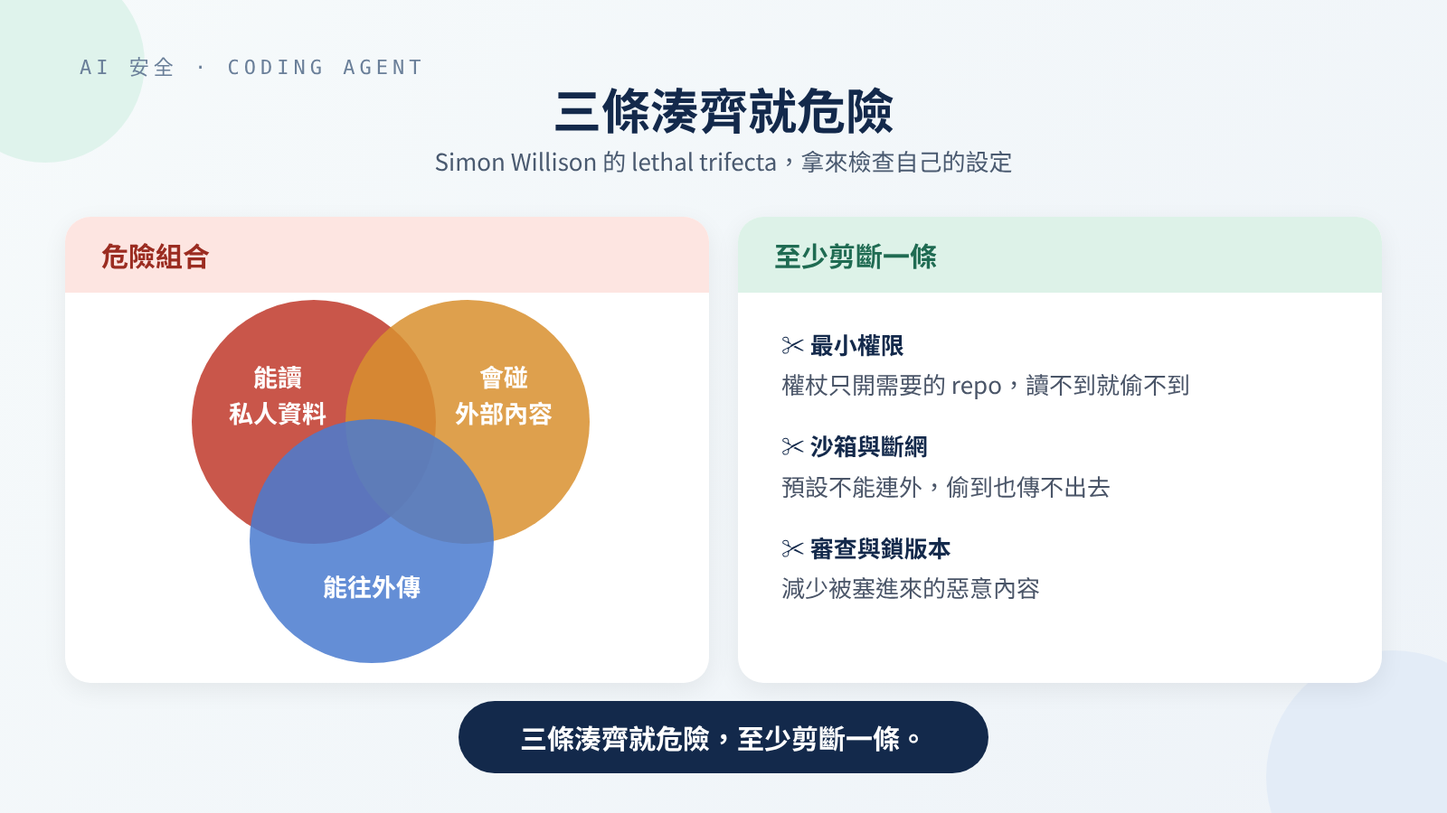
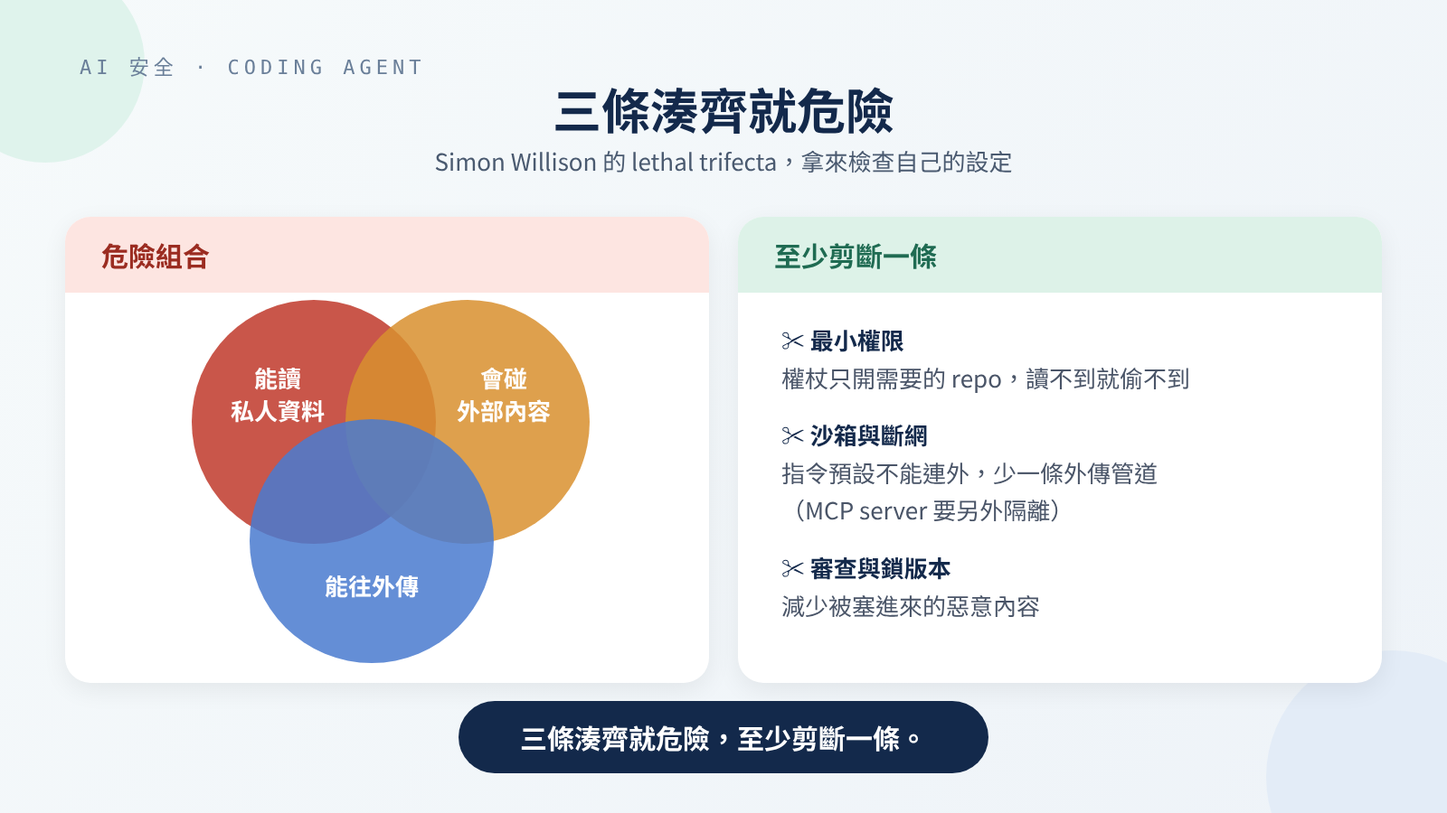
依審稿第 1 輪修訂 Coding Agent 供應鏈文章（JM-20261016-001 v3）
- mcp-remote 補修補版本 0.1.16、CVSS 9.6、GHSA 連結與平台差異
- Cursor CVSS 分數來源差異加註；Nx 描述收斂到來源範圍
- 簡中逐條改為大陸用語；圖片與封面改為各語言版本
- 術語白話說明、縮短 description、改用正式網址、補鎖版本範例

diff --git a/_posts/en/2026-10-16-coding-agent-supply-chain-permission-risks.md b/_posts/en/2026-10-16-coding-agent-supply-chain-permission-risks.md
@@ -1,12 +1,12 @@
 ---
 title: "What New Openings Does Your Coding Agent Get After You Install Third-Party Skills and MCP Servers?"
-description: From poisoned MCP tool descriptions and a GitHub issue that leaks private repos, to CVEs in Cursor and mcp-remote and the malicious Nx release that tried to enlist local AI tools, this post breaks down the supply-chain and permission risks of coding agents and ends with a checklist for before you install, while you use, and after something goes wrong.
+description: "Five public cases of how third-party skills and MCP servers widen a coding agent's attack surface, from prompt injection to supply chain and permissions, plus a checklist."
 date: 2026-10-16 16:30:00 +0800
 categories: [Security, AI Agents]
 tags: [ai-security, coding-agent, mcp, agent-skills, prompt-injection, supply-chain-security]
 media_subpath: /assets/img/posts/coding-agent-supply-chain-permission-risks/
 image:
-  path: cover.png
+  path: cover.en.png
   alt: "Cover: a coding agent connected to plugins, tools, and the network, next to four risk entry points and a checklist."
 ---
 
@@ -19,13 +19,15 @@ From that moment, your coding agent reads instructions you never wrote, runs cod
 
 The short version: no need to panic, but treat skills and MCP servers as "software that runs on your machine," not "a bit of configuration."
 
-## Three terms first
+## Five terms first
 
 | Term | One-sentence explanation |
 | --- | --- |
 | Skill | A folder with an instruction file for the AI (`SKILL.md`), optionally with scripts; when the AI decides it's relevant, it reads the file and follows it. |
 | MCP server | A small program that connects the AI to outside tools, like GitHub or a database; it tells the AI "here are my tools and how to use them." |
 | Prompt injection | Hiding instructions in content the AI will read (web pages, issues, docs, tool output) so the AI mistakes them for commands it should follow. |
+| Token | A string that stands in for your username and password; whoever holds it can act as you within what it allows. |
+| Sandbox | A fence around a program that limits which files it can read or write and whether it can reach the network. |
 
 For how skills get installed and invoked, see [mattpocock/skills Series (1)](/posts/mattpocock-skills-setup-routing-guide/).
 
@@ -35,15 +37,15 @@ Picture your coding agent as a very capable assistant who believes everything. I
 
 The assistant follows the manual and trusts the vendor's self-description. The catch: you wrote neither, and the assistant is holding your keys.
 
-**Fact**: Anthropic's [Agent Skills docs](https://docs.claude.com/en/docs/agents-and-tools/agent-skills/overview#security-considerations) say to use only skills you wrote or got from Anthropic, and that a malicious skill can direct Claude to invoke tools or execute code in ways that don't match its stated purpose. The same page says that in Claude Code, skills have [the same network access as any other program on your computer](https://docs.claude.com/en/docs/agents-and-tools/agent-skills/overview#runtime-environment-constraints).
+**Fact**: Anthropic's [Agent Skills docs](https://platform.claude.com/docs/en/agents-and-tools/agent-skills/overview#security-considerations) say to use only skills you wrote or got from Anthropic, and that a malicious skill can direct Claude to invoke tools or execute code in ways that don't match its stated purpose. The same page says that in Claude Code, skills have [the same network access as any other program on your computer](https://platform.claude.com/docs/en/agents-and-tools/agent-skills/overview#runtime-environment-constraints).
 
-**Fact**: The [Claude Code security docs](https://docs.claude.com/en/docs/claude-code/security#mcp-security) say Anthropic does not security-audit or manage any MCP server.
+**Fact**: The [Claude Code security docs](https://code.claude.com/docs/en/security#mcp-security) say Anthropic does not security-audit or manage any MCP server; it only reviews connectors against its listing criteria before adding them to the Anthropic Directory.
 
 In other words, the vendors themselves hand that responsibility back to you.
 
 ## The attack surface: four entry points
 
-![A coding agent in the middle with four entry points around it: instructions hidden in tool output and documents, malicious or tampered skills and MCP servers, over-broad permissions and credentials, and auto-executed commands; the bottom reads "Four entry points, often chained together"](attack-surface-map.png){: width="800" height="450" }
+![A coding agent in the middle with four entry points around it: instructions hidden in tool output and documents, malicious or tampered skills and MCP servers, over-broad permissions and credentials, and commands that run automatically (including silent installs of the latest version); the bottom reads "Four entry points, often chained together"](attack-surface-map.en.png){: width="800" height="450" }
 _The four entry points rarely show up alone; real attacks usually chain two or three._
 
 ### Entry 1: instructions hidden in content
@@ -54,7 +56,7 @@ The AI isn't good at telling who said what. Your instructions, web pages, issue 
 
 1. Access to your private data
 2. Exposure to content someone else controls
-3. A way to send things out (a request, a PR, even just a link)
+3. A way to send things out (a network request, loading an image, even just giving you a link)
 
 It isn't a formal standard, but it's an excellent way to check your own setup. The defenses below keep coming back to these three.
 
@@ -71,13 +73,13 @@ The second is sneakier, because you already reviewed and approved it.
 
 What an agent can do is the sum of the permissions it holds. Your `~/.ssh`, API keys in environment variables, the token from your `gh` login, passwords in MCP config files: if the user running the agent can read them, so can the agent.
 
-**Fact**: The [official MCP security best practices](https://modelcontextprotocol.io/specification/2025-06-18/basic/security_best_practices#local-mcp-server-compromise) state that local MCP servers run with the same privileges as the MCP client, and list requesting a huge bundle of scopes up front as a common mistake, since a leaked token then reaches much further.
+**Fact**: The [official MCP security best practices](https://modelcontextprotocol.io/docs/2025-06-18/tutorials/security/security_best_practices#local-mcp-server-compromise) state that local MCP servers run with the same privileges as the MCP client, and list requesting a huge bundle of scopes up front as a common mistake, since a leaked token then reaches much further.
 
 ### Entry 4: auto-executed commands
 
-To stop being asked "may I run this?", many people turn on auto-approve or switch off the sandbox entirely. It saves a lot of time, and removes the last human checkpoint.
+To stop being asked "may I run this?", many people turn on auto-approve or switch off the sandbox entirely. It saves a lot of time, and removes the last human checkpoint. A quieter kind of "automatic" exists too: some tools install the latest version of a package in the background without asking (that is what happened in Case 5).
 
-**Fact**: The Codex docs label `--dangerously-bypass-approvals-and-sandbox` (alias `--yolo`) as [no sandbox, no approvals, not recommended](https://developers.openai.com/codex/agent-approvals-security#common-sandbox-and-approval-combinations). The Claude Code docs warn that in Manual mode [a Bash command you approve can still write anywhere your user account can](https://docs.claude.com/en/docs/claude-code/security#built-in-protections); the folder boundary is a prompt, not a wall.
+**Fact**: The Codex docs label `--dangerously-bypass-approvals-and-sandbox` (alias `--yolo`) as [no sandbox, no approvals, not recommended](https://learn.chatgpt.com/docs/agent-approvals-security#common-sandbox-and-approval-combinations). The Claude Code docs warn that in Manual mode [a Bash command you approve can still write anywhere your user account can](https://code.claude.com/docs/en/security#built-in-protections); the folder boundary is a prompt, not a wall.
 
 ## Cases: five with primary sources
 
@@ -100,75 +102,89 @@ The same post covers two extensions:
 
 **Fact**: The report stresses this isn't a bug in the GitHub MCP server's code but a system-level design problem that happens even when every tool is trustworthy.
 
-**Inference**: This is the lethal trifecta by the textbook: one token that can read private repos (private data), read public issues (outside content), and open PRs (a way out).
+**Inference**: This is the lethal trifecta by the textbook: one token that can read private repos (private data), read public issues (outside content), and open a PR on a public repo (a way out). Here the PR plays the role of Willison's "way to send things out," just in a different form.
 
 ### Case 3: Cursor's CVE-2025-54135 (patched)
 
-**Fact**: Per [Cursor's advisory GHSA-4cxx-hrm3-49rm](https://github.com/cursor/cursor/security/advisories/GHSA-4cxx-hrm3-49rm) and the [CVE record](https://www.cve.org/CVERecord?id=CVE-2025-54135): before 1.3.9, Cursor let the agent create new files in the workspace without approval. Editing an existing dotfile required approval, but creating one didn't. So if `.cursor/mcp.json` didn't exist yet, an attacker could chain an indirect prompt injection to have the agent write it, add a new MCP server, and execute arbitrary code. The advisory scores it CVSS 3.1 8.5; the fix is in 1.3.9.
+**Fact**: Per [Cursor's advisory GHSA-4cxx-hrm3-49rm](https://github.com/cursor/cursor/security/advisories/GHSA-4cxx-hrm3-49rm) and the [CVE record](https://www.cve.org/CVERecord?id=CVE-2025-54135): before 1.3.9 (the CVE record's wording; the advisory's affected-versions field says up to 1.2.1), Cursor let the agent create new files in the workspace without approval. Editing an existing hidden config file (a dotfile, a name starting with a dot, like `.cursor/mcp.json`) required approval, but creating one didn't. So if `.cursor/mcp.json` didn't exist yet, an attacker could chain an indirect prompt injection to have the agent write it, add a new MCP server, and execute arbitrary code. The fix is in 1.3.9. On severity, the advisory gives a CVSS 3.1 score (the industry's standard vulnerability severity score, out of 10) of 8.5. The CVE record says 8.6, but both use the identical vector, and computing that vector with the CVSS 3.1 formula myself gives 8.5.
 
 **Inference**: This chains Entry 1 (hidden instructions) with Entry 4 (auto-execution). A config file is itself a place that can run code; whether the agent may write it deserves the same strictness as whether it may run shell commands.
 
 ### Case 4: mcp-remote's CVE-2025-6514 (patched)
 
-**Fact**: [CVE-2025-6514](https://www.cve.org/CVERecord?id=CVE-2025-6514) records that `mcp-remote` (an npm package that connects local clients to remote MCP servers) was open to OS command injection when connecting to an untrusted MCP server, via a crafted URL in the `authorization_endpoint` response. Affected versions are 0.0.5 through 0.1.15. The record links [JFrog's research](https://jfrog.com/blog/2025-6514-critical-mcp-remote-rce-vulnerability) and the [fix commit](https://github.com/geelen/mcp-remote/commit/607b226a356cb61a239ffaba2fb3db1c9dea4bac).
+**Fact**: [CVE-2025-6514](https://www.cve.org/CVERecord?id=CVE-2025-6514) records that `mcp-remote` (an npm package that connects local clients to remote MCP servers) was open to OS command injection when connecting to an untrusted MCP server, via a crafted URL in the `authorization_endpoint` response. (`authorization_endpoint` is the "go here to sign in" address in an OAuth flow; OAuth is the common "sign in by authorizing through another service" mechanism.) Affected versions are 0.0.5 through 0.1.15; [GitHub advisory GHSA-6xpm-ggf7-wc3p](https://github.com/advisories/GHSA-6xpm-ggf7-wc3p) lists 0.1.16 as the first patched version. The CVE record, the GitHub advisory, and [JFrog's research](https://jfrog.com/blog/2025-6514-critical-mcp-remote-rce-vulnerability) all give CVSS 3.1 9.6 (Critical). The fix is in [this commit](https://github.com/punkpeye/mcp-remote/commit/607b226a356cb61a239ffaba2fb3db1c9dea4bac).
 
-**Fact**: The MCP best practices have a matching rule: clients [must not open authorization URLs with shell commands](https://modelcontextprotocol.io/specification/2025-06-18/basic/security_best_practices#oauth-authorization-url-validation) and must reject dangerous URL schemes.
+**Fact**: JFrog also spells out platform differences. On Windows they proved arbitrary OS command execution with full control of the arguments; on macOS and Linux it leads to running arbitrary executables with limited argument control (they note full command execution there may be possible with more research). Their two attack scenarios: connecting to a malicious or hijacked MCP server, or connecting over plain `http://` while someone on the same local network intercepts and tampers with the traffic.
+
+**Fact**: The MCP best practices have a matching rule: clients [must not open authorization URLs with shell commands](https://modelcontextprotocol.io/docs/2025-06-18/tutorials/security/security_best_practices#oauth-authorization-url-validation) and must reject dangerous URL schemes.
 
 **Inference**: "Just connecting to an MCP server" is an execution risk, not only a data risk. Choosing which server to connect to is the same kind of decision as choosing which package to install.
 
 ### Case 5: malicious Nx releases enlist local AI tools (real incident, August 2025)
 
-**Fact**: According to Nx's [advisory GHSA-cxm3-wv7p-598c](https://github.com/nrwl/nx/security/advisories/GHSA-cxm3-wv7p-598c), attackers used a GitHub Actions injection bug to get the npm publish token and, on August 26, 2025, published malicious versions of `nx` and related packages. Their post-install script scanned the file system, collected credentials, and uploaded them to a repo named `s1ngularity-repository` under the victim's own GitHub account. The script in the advisory's appendix includes a prompt addressed to a "file-search agent," asking it to list paths of config and environment files.
+**Fact**: According to Nx's [advisory GHSA-cxm3-wv7p-598c](https://github.com/nrwl/nx/security/advisories/GHSA-cxm3-wv7p-598c), attackers used an injection bug in GitHub Actions (GitHub's built-in automation) to get the npm publish token (the credential for pushing new versions to the npm registry) and, on the evening of August 26, 2025 (US Eastern time), published malicious versions of `nx` and related packages. They carried a postinstall script (a script that runs automatically right after a package is installed) that scanned the file system, collected credentials, and uploaded them to a repo whose name contains `s1ngularity-repository` under the victim's own GitHub account. The script in the advisory's appendix includes a prompt addressed to a "file-search agent," asking it to list paths of config and environment files.
 
-**Fact**: Nx's [postmortem](https://nx.dev/blog/s1ngularity-postmortem) says the malicious packages attempted to use local AI tools (like Claude and Gemini). The advisory also notes that npm packages get installed through more than your own `npm install`: transitive dependencies, editor extensions, and AI agents. Their own Nx Console extension auto-installed the latest `nx`, so some people were hit just by opening their editor.
+**Fact**: Nx's [postmortem](https://nx.dev/blog/s1ngularity-postmortem) says the malicious packages attempted to use local AI tools (like Claude and Gemini). The advisory also notes that npm packages get installed through more than your own `npm install`: transitive dependencies, editor extensions, and AI agents. Their own Nx Console extension (VS Code versions 18.6.30 through 18.65.1) auto-installed the latest `nx`, so people with that extension who opened their editor during the few hours the malicious versions were tagged latest (6:37 PM to 10:44 PM US Eastern on August 26) may have been hit, even if their projects didn't use Nx.
 
-**Inference**: This flips the direction. Nobody attacked the agent; malware used an agent you'd already logged in and empowered as its tool. The more permission and the less confirmation your agent needs, the more useful it is to borrow.
+**Inference**: This flips the direction. The point isn't that someone attacked your agent; it's that malware *tried* to enlist the AI tools on your machine as helpers. If your agent is already logged in, highly privileged, and needs no confirmation, that kind of borrowing is easy; if it asks you at every step, it's much harder.
 
 > Neither the advisory nor the postmortem says how many victims' local AI tools actually ran, or what they did. I can't confirm that part, so please don't read this as "AI tools were exploited at scale."
 {: .prompt-warning }
 
 ## Defenses: four directions and what each blocks
 
-![On the left, three conditions: can read private data, touches outside content, can send things out, drawn as three overlapping circles. On the right, least privilege, sandbox with no network, and review plus pinning each cut one of them; the bottom reads "All three together is dangerous; cut at least one"](trifecta-cut.png){: width="800" height="450" }
+![On the left, three conditions: can read private data, touches outside content, can send things out, drawn as three overlapping circles. On the right, least privilege, sandbox with network off (noting that MCP servers need their own isolation), and review plus pinning each cut one of them; the bottom reads "All three together is dangerous; cut at least one"](trifecta-cut.en.png){: width="800" height="450" }
 _The goal isn't a smarter AI; it's an AI that can't do much damage even when fooled._
 
 **Opinion**: No single trick solves prompt injection. The practical approach today is to assume your agent will read malicious content someday, and make sure that on that day it can do very little harm.
 
 ### 1. Least privilege: just enough keys
 
-- Use fine-grained GitHub tokens scoped to the repos and permissions needed; don't hand the agent your full `gh` login.
-- One project per session. One of Invariant's recommendations in Case 2 is [limiting the agent to one repo per session](https://invariantlabs.ai/blog/mcp-github-vulnerability).
-- Start MCP authorization with minimal scopes and add more when needed, per the [MCP best practices on scope minimization](https://modelcontextprotocol.io/specification/2025-06-18/basic/security_best_practices#scope-minimization).
+- Use fine-grained GitHub tokens (tokens limited to specific repos and permissions, created under Settings → Developer settings → Personal access tokens); don't hand the agent your full `gh` login.
+- One project per session. One of Invariant's recommendations in Case 2 is [limiting the agent to one repo per session](https://invariantlabs.ai/blog/mcp-github-vulnerability) (they demonstrate it with their own Guardrails product; the idea can be implemented other ways).
+- Start MCP authorization with minimal scopes and add more when needed, per the [MCP best practices on scope minimization](https://modelcontextprotocol.io/docs/2025-06-18/tutorials/security/security_best_practices#scope-minimization).
 - Get credentials out of plaintext files. Nx's postmortem recommends the same.
 
 ### 2. Sandboxing: keep it inside a fence
 
 **Fact**:
 
-- Codex CLI uses an OS-level sandbox, [with no network and writes limited to the current workspace by default](https://developers.openai.com/codex/agent-approvals-security#sandbox-and-approvals); inside writable roots, `.git`, `.codex`, and `.agents` stay read-only.
-- Claude Code offers a [sandboxed Bash tool](https://docs.claude.com/en/docs/claude-code/security#built-in-protections) with filesystem and network isolation, and recommends VMs or dev containers when dealing with untrusted content.
+- Codex CLI uses an OS-level sandbox, [with no network and writes limited to the current workspace by default](https://learn.chatgpt.com/docs/agent-approvals-security); inside writable roots, `.git`, `.codex`, and `.agents` stay read-only.
+- Claude Code offers a [sandboxed Bash tool](https://code.claude.com/docs/en/security#built-in-protections) with filesystem and network isolation, and recommends VMs or dev containers (a whole development environment inside an isolated container) when dealing with untrusted content.
 
-**Fact**: Sandboxes have edges. The Codex docs state that the command network proxy [doesn't filter MCP server connections, web search, or connector calls](https://developers.openai.com/codex/agent-approvals-security#traffic-outside-the-command-network-proxy), and that running full-access mode in a dev container still lets a malicious project exfiltrate everything inside, including Codex credentials.
+**Fact**: Sandboxes have edges. The Codex docs state that the command network proxy [doesn't filter MCP server connections, web search, or connector calls](https://learn.chatgpt.com/docs/agent-approvals-security#traffic-outside-the-command-network-proxy), and that running full-access mode in a dev container still lets a malicious project exfiltrate everything inside, including Codex credentials.
 
 **Inference**: A sandbox fences in "commands the agent runs," not necessarily "what an MCP server does on its own." A local MCP server is a separate program and needs its own isolation.
 
 ### 3. Review: read before installing, watch for changes after
 
-- For skills, review the whole folder, not just `SKILL.md`. Anthropic's docs say to [check scripts, images, and other resources](https://docs.claude.com/en/docs/agents-and-tools/agent-skills/overview#security-considerations), and watch for unexpected network calls, file access, and skills that fetch external URLs.
-- For MCP servers, look at exactly how they're launched: the full command and arguments. The MCP spec requires one-click setups to [show the exact command, untruncated](https://modelcontextprotocol.io/specification/2025-06-18/basic/security_best_practices#local-mcp-server-compromise).
-- Review `.mcp.json`, `.cursor/mcp.json`, `.claude/`, and skill folders in PRs like code. The Claude Code docs note that [reviewing `.mcp.json` doesn't show every server a session can load](https://docs.claude.com/en/docs/claude-code/security#mcp-security); plugins and other scopes add servers too.
+- For skills, review the whole folder, not just `SKILL.md`. Anthropic's docs say to [check scripts, images, and other resources](https://platform.claude.com/docs/en/agents-and-tools/agent-skills/overview#security-considerations), and watch for unexpected network calls, file access, and skills that fetch external URLs.
+- For MCP servers, look at exactly how they're launched: the full command and arguments. The MCP spec requires one-click setups to [show the exact command, untruncated](https://modelcontextprotocol.io/docs/2025-06-18/tutorials/security/security_best_practices#local-mcp-server-compromise).
+- Review `.mcp.json`, `.cursor/mcp.json`, `.claude/`, and skill folders in PRs like code. The Claude Code docs note that [reviewing `.mcp.json` doesn't show every server a session can load](https://code.claude.com/docs/en/security#mcp-security); plugins and other scopes add servers too.
 
 ### 4. Version pinning: don't let it change behind your back
 
 - Install skills from a fixed commit, not a moving main.
-- When launching MCP servers with `npx` or `uvx`, pin the version; avoid `@latest`. In the Nx incident, auto-installing the latest version is exactly what hit people who didn't even use Nx.
+- MCP servers are often launched with `npx` or `uvx` (commands that download a package and run it directly). Pin the version; avoid `@latest` (always fetch the newest) or leaving the version out. In the Nx incident, auto-installing the latest version is exactly what hit people who didn't even use Nx.
+
+Concretely (replace `<commit>` with the commit you reviewed):
+
+```bash
+# MCP: pin the patched version instead of plain npx mcp-remote
+npx -y mcp-remote@0.1.16 https://mcp.example.com/mcp
+
+# Skill: clone, then check out the reviewed commit
+git clone https://github.com/someone/some-skill.git
+git -C some-skill checkout <commit>
+```
+
 - Invariant also recommends [pinning MCP servers and tool descriptions and checking them with a hash](https://invariantlabs.ai/blog/mcp-security-notification-tool-poisoning-attacks), which targets Case 1's rug pull.
 
 **Opinion**: Pinning matters more for agents than for ordinary projects. Swap out a normal package and your tests might break. Swap out a skill's instructions and nothing breaks; the AI just starts doing something else.
 
 ## Checklist
 
-![Three-column checklist: before installing (read the whole folder and launch command, check source and maintainer, pin the version), while using (fine-grained tokens, sandbox with limited network, no "Always Allow"), after an incident (revoke tokens, check audit logs, inspect config and shell files); the bottom reads "Manage skills and MCP like software that runs"](checklist-three-stages.png){: width="800" height="450" }
+![Three-column checklist: before installing (read the whole folder and launch command, check source and maintainer, pin the version), while using (fine-grained tokens, sandbox with limited network, no "Always Allow"), after an incident (revoke tokens, check audit logs, inspect config and shell files); the bottom reads "Manage skills and MCP like software that runs"](checklist-three-stages.en.png){: width="800" height="450" }
 _The list has three parts, one for each point in time._
 
 ### Before installing
@@ -193,14 +209,14 @@ _The list has three parts, one for each point in time._
 
 - [ ] Revoke and reissue every token the agent could reach: GitHub, npm, cloud, MCP credentials.
 - [ ] Check GitHub audit logs for unfamiliar repos, PRs, or pushes. The Nx advisory asked users to [check their security log for newly created repos](https://github.com/nrwl/nx/security/advisories/GHSA-cxm3-wv7p-598c).
-- [ ] Inspect `.mcp.json`, `.cursor/mcp.json`, skill folders, `~/.bashrc`, and `~/.zshrc` for additions.
+- [ ] Inspect `.mcp.json`, `.cursor/mcp.json`, skill folders, `~/.bashrc`, and `~/.zshrc` (config files that run automatically every time you open a terminal) for additions.
 - [ ] Remove suspicious skills and MCP servers, and clear package caches such as `npx`'s.
 
 ## Conclusion
 
 Installing third-party skills and MCP servers puts someone else's code and someone else's words next to your agent. The code brings ordinary supply-chain risk; the words bring AI-specific prompt-injection risk. The agent's permissions decide how much damage either can do.
 
-**Opinion**: The first thing worth doing isn't buying a guardrail product that claims to catch 95% of attacks (Willison is skeptical of those claims too). It's two boring things: shrink the agent's tokens to the minimum, and pin the version of every skill and MCP server you install. The first limits what a fooled agent can do; the second limits what can change without you knowing.
+**Opinion**: The first thing worth doing isn't buying a guardrail product that claims to catch 95% of attacks (Willison is skeptical of those claims too: in web application security, he says, 95% is very much a failing grade). It's two boring things: shrink the agent's tokens to the minimum, and pin the version of every skill and MCP server you install. The first limits what a fooled agent can do; the second limits what can change without you knowing.
 
 It's the same lesson as my earlier post on the [HEIF image and SSO attack chain](/posts/openai-libheif-sso-attack-chain/): how much damage a small entry point does depends on how much trust sits behind it.
 
@@ -208,15 +224,16 @@ It's the same lesson as my earlier post on the [HEIF image and SSO attack chain]
 
 **Official documentation**
 
-- Anthropic, [Agent Skills overview: Security considerations](https://docs.claude.com/en/docs/agents-and-tools/agent-skills/overview#security-considerations)
-- Anthropic, [Claude Code Security](https://docs.claude.com/en/docs/claude-code/security)
-- OpenAI, [Codex: Agent approvals & security](https://developers.openai.com/codex/agent-approvals-security)
-- Model Context Protocol, [Security Best Practices (2025-06-18 spec)](https://modelcontextprotocol.io/specification/2025-06-18/basic/security_best_practices)
+- Anthropic, [Agent Skills overview: Security considerations](https://platform.claude.com/docs/en/agents-and-tools/agent-skills/overview#security-considerations)
+- Anthropic, [Claude Code Security](https://code.claude.com/docs/en/security)
+- OpenAI, [Codex: Agent approvals & security](https://learn.chatgpt.com/docs/agent-approvals-security)
+- Model Context Protocol, [Security Best Practices (2025-06-18)](https://modelcontextprotocol.io/docs/2025-06-18/tutorials/security/security_best_practices)
 
 **Advisories and CVEs**
 
+- GitHub, [GHSA-6xpm-ggf7-wc3p](https://github.com/advisories/GHSA-6xpm-ggf7-wc3p) (mcp-remote, patched in 0.1.16)
 - Cursor, [GHSA-4cxx-hrm3-49rm](https://github.com/cursor/cursor/security/advisories/GHSA-4cxx-hrm3-49rm); [CVE-2025-54135](https://www.cve.org/CVERecord?id=CVE-2025-54135)
-- [CVE-2025-6514](https://www.cve.org/CVERecord?id=CVE-2025-6514) (mcp-remote); JFrog, [research](https://jfrog.com/blog/2025-6514-critical-mcp-remote-rce-vulnerability); [fix commit](https://github.com/geelen/mcp-remote/commit/607b226a356cb61a239ffaba2fb3db1c9dea4bac)
+- [CVE-2025-6514](https://www.cve.org/CVERecord?id=CVE-2025-6514) (mcp-remote); JFrog, [research](https://jfrog.com/blog/2025-6514-critical-mcp-remote-rce-vulnerability); [fix commit](https://github.com/punkpeye/mcp-remote/commit/607b226a356cb61a239ffaba2fb3db1c9dea4bac)
 - Nx, [GHSA-cxm3-wv7p-598c](https://github.com/nrwl/nx/security/advisories/GHSA-cxm3-wv7p-598c); [S1ngularity postmortem](https://nx.dev/blog/s1ngularity-postmortem)
 
 **Research and opinion**
